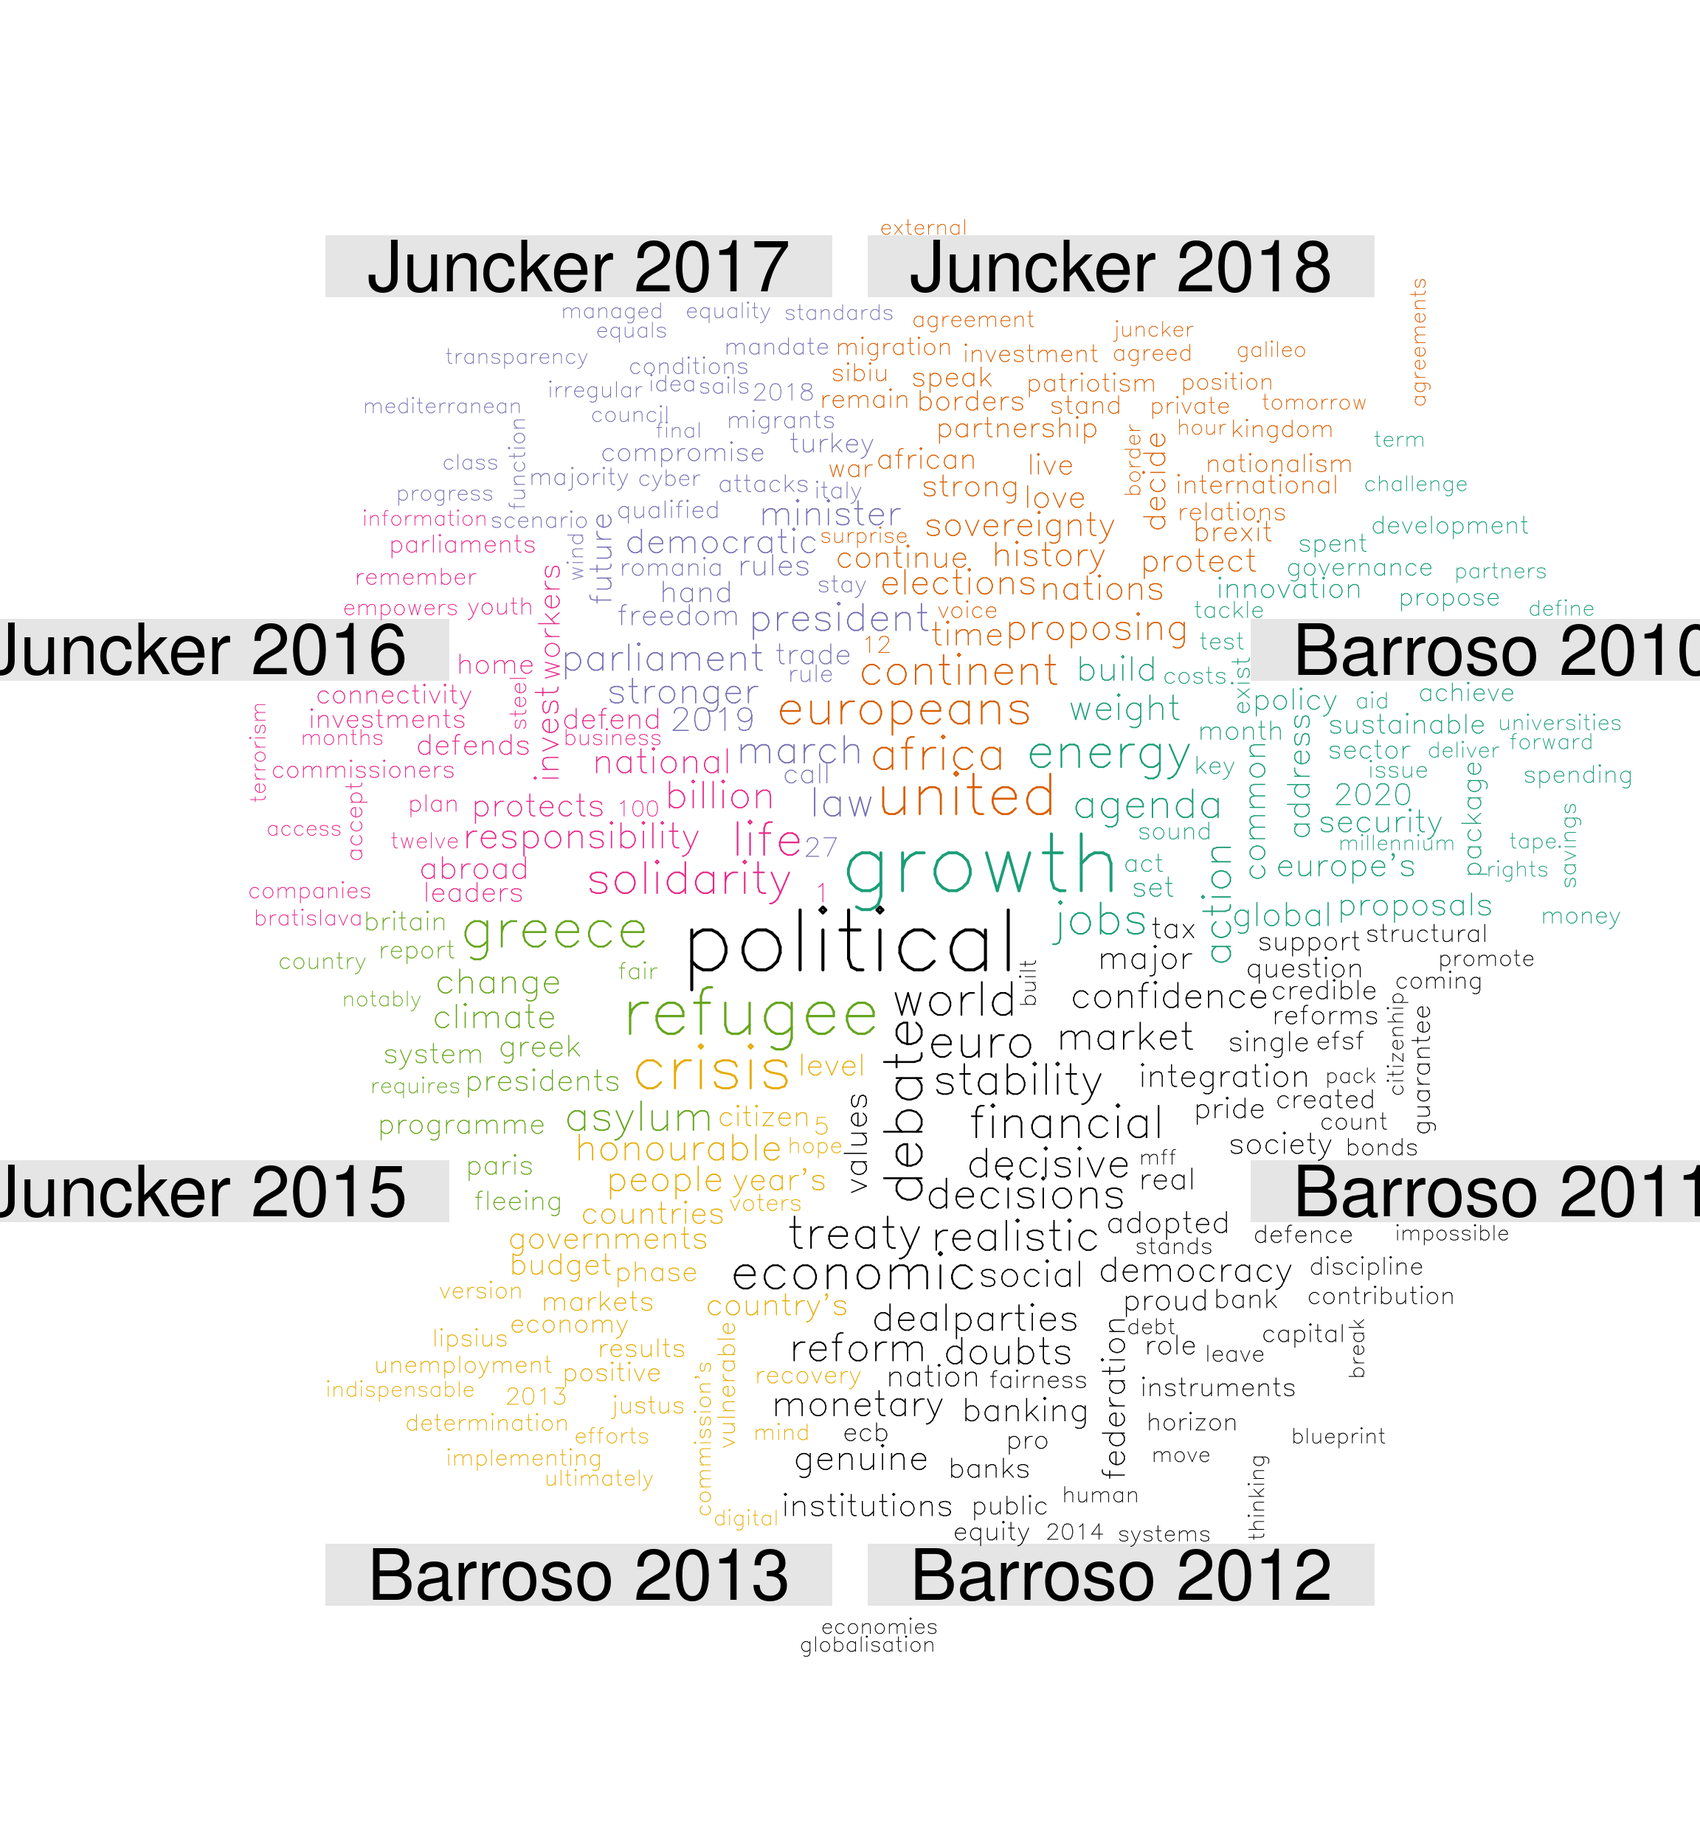
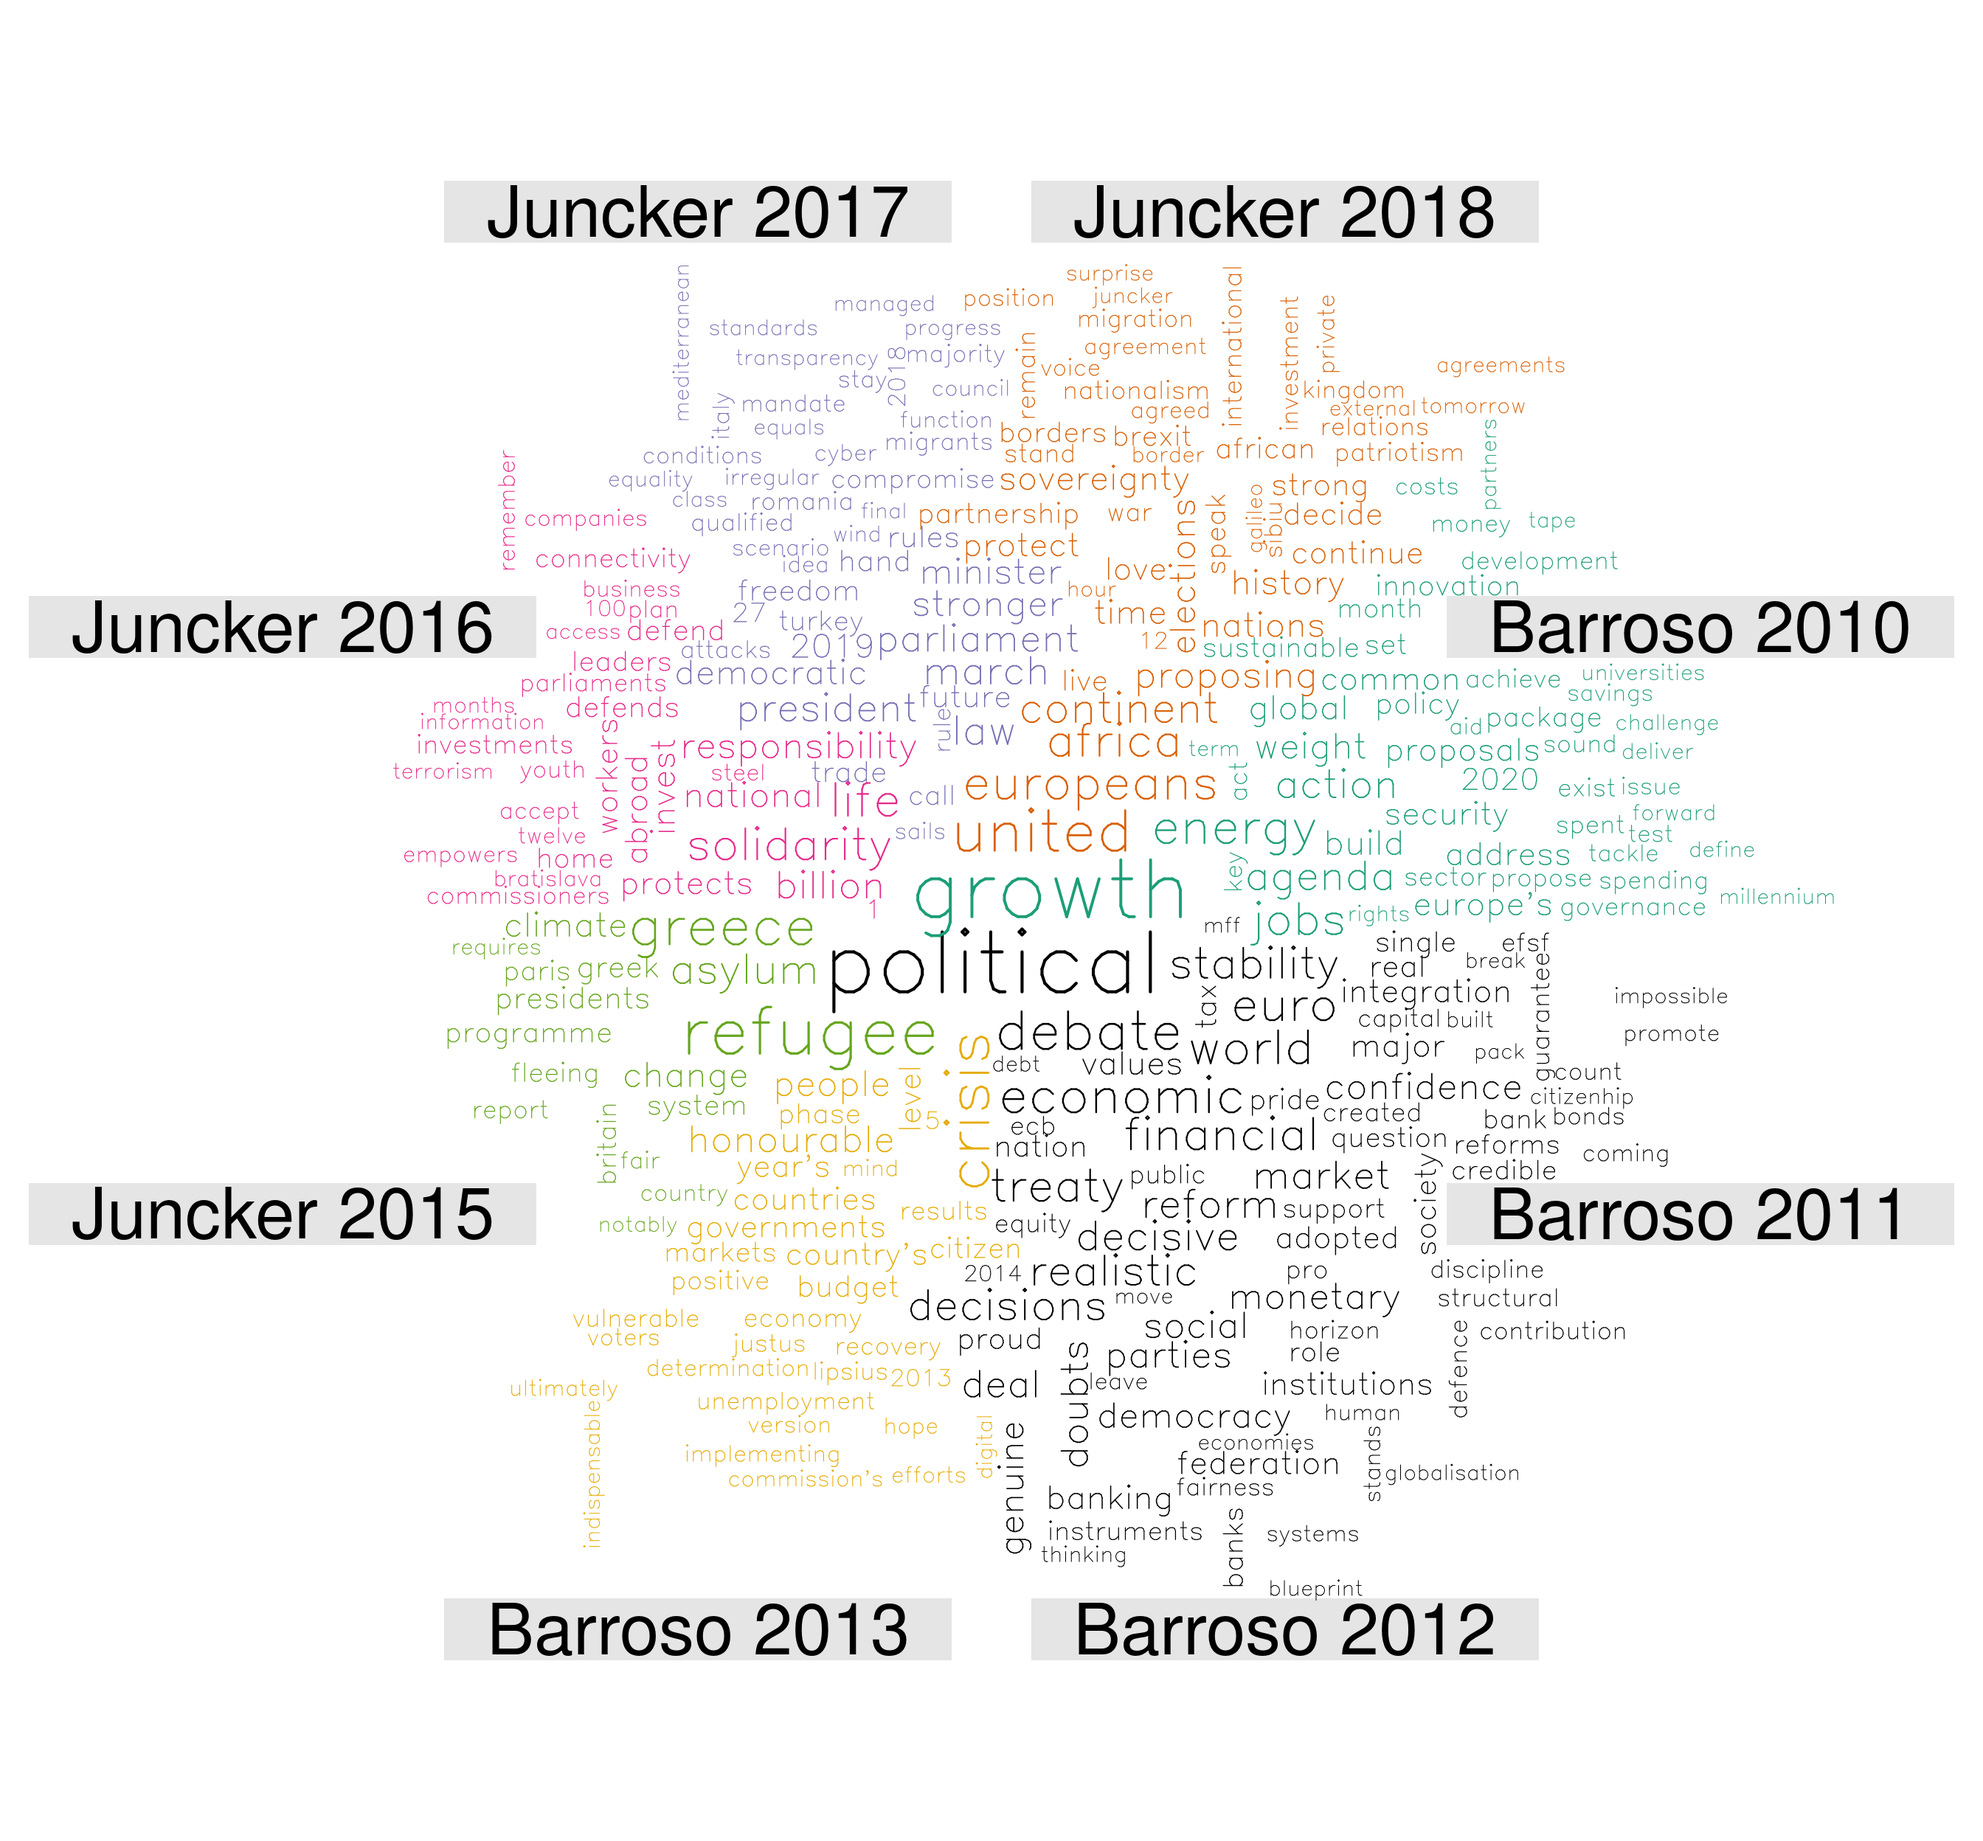
prevent crop in comparison wordcloud

Changed region(s): [[0.0, 0.0938, 1.0, 0.9062]]

diff --git a/content/post/2018-09-12-exploring-soteu-speeches.html b/content/post/2018-09-12-exploring-soteu-speeches.html
@@ -137,7 +137,7 @@ Self-referential words such as ‘european’, ‘commission’, ‘union’, an
 <div id="what-are-the-most-distinctive-words-of-each-soteu-speech" class="section level2">
 <h2>What are the most distinctive words of each SOTEU speech?</h2>
 <p>The following wordcloud compares the frequency of words across speeches, showing the words that are most frequent in each of the speech and are at the same time less frequently found in other speeches.</p>
-<p><img src="/post/2018-09-12-exploring-soteu-speeches_files/figure-html/wordcloud_all_soteu_byspeech_ss-1.png" width="1152" /></p>
+<p><img src="/post/2018-09-12-exploring-soteu-speeches_files/figure-html/wordcloud_all_soteu_byspeech_ss-1.png" width="1344" /></p>
 <p><a href="../../../../post/2018-09-12-exploring-soteu-speeches_files/figure-html/wordcloud_all_soteu_byspeech_ss-1.png"><em>Download this graph</em></a>.</p>
 <p>Including only SOTEU by Juncker.</p>
 <p><img src="/post/2018-09-12-exploring-soteu-speeches_files/figure-html/wordcloud_all_soteu_byspeech_ss_Juncker_only-1.png" width="1152" /></p>
